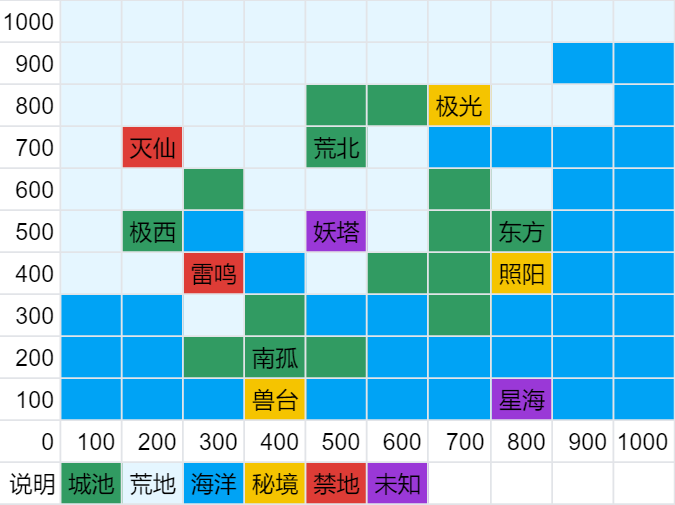
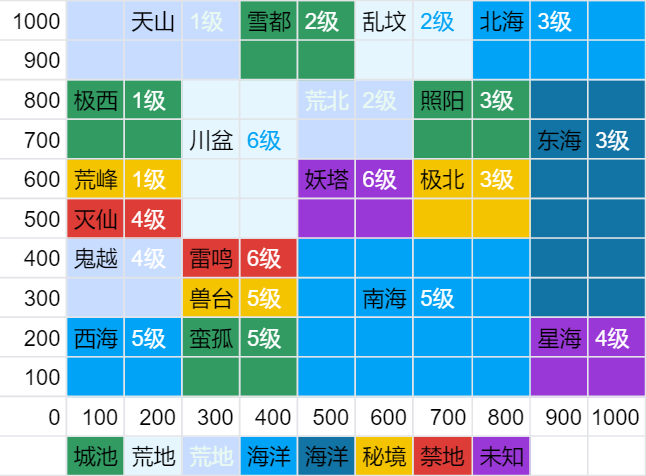
V2.0优化

diff --git a/apps/SecretPlace/SecretPlace.js b/apps/SecretPlace/SecretPlace.js
@@ -1,5 +1,6 @@
 import plugin from '../../../../lib/plugins/plugin.js';
 import data from '../../model/XiuxianData.js';
+import fs from 'node:fs';
 import { Go, Read_action, Read_level, Read_wealth, Write_action, Write_wealth } from '../Xiuxian/Xiuxian.js';
 export class SecretPlace extends plugin {
     constructor() {
@@ -42,25 +43,15 @@ export class SecretPlace extends plugin {
         const address = e.msg.replace('#前往', '');
         //点位表：有各种点位置、传送阵
         const point = JSON.parse(fs.readFileSync(`${data.__PATH.position}/point.json`)).find(item => item.name == address);
-        let mx = point.x;
-        let my = point.y;
+        const mx = point.x;
+        const my = point.y;
         const PointId=point.id.split('-');
-        let grade = PointId[3];
         if (!point) {
-            //看他说的是不是区域地点
-            const position = JSON.parse(fs.readFileSync(`${data.__PATH.position}/position.json`)).find(item => item.name == address);
-            if (!position) {
-                return;
-            };
-            const PositionId=position.id.split('-');
-            //是区域的，就随机分配
-            mx = Math.floor((Math.random() * (position.x2 - position.x1))) + Number(position.x1);
-            my = Math.floor((Math.random() * (position.y2 - position.y1))) + Number(position.y1);
-            grade = PositionId[3];
+            return;
         };
         //判断地点等级限制
-        const level = await Read_level();
-        if (level.level_id < grade) {
+        const level = await Read_level(usr_qq);
+        if (level.level_id < PointId[3]) {
             //境界不足
             e.reply('前面的区域以后再来探索吧');
             return;
@@ -71,10 +62,12 @@ export class SecretPlace extends plugin {
             clearTimeout(setTime);
             action.x = mx;
             action.y = my;
+            action.region=PointId[1];
+            action.adress=PointId[2];
             await Write_action(usr_qq, action);
             e.reply(`${usr_qq}成功抵达${address}`);
         }, 1000 * time);
-        e.reply(`正在前往${address}`);
+        e.reply(`正在前往${address}...\n需要${time}秒`);
         return;
     };
 
@@ -134,10 +127,12 @@ export class SecretPlace extends plugin {
             clearTimeout(setTime);
             action.x = mx;
             action.y = my;
+            action.region=positionID[1];
+            action.address=positionID[2];
             await Write_action(usr_qq, action);
             e.reply(`${usr_qq}成功传送至${address}`);
         }, 1000 * time);
-        e.reply(`正在传送${address}`);
+        e.reply(`正在传送${address}\n需要${time}秒`);
         return;
     };
 };

diff --git a/apps/User/UserStart.js b/apps/User/UserStart.js
@@ -14,7 +14,7 @@ export class UserStart extends plugin {
             priority: 600,
             rule: [
                 {
-                    reg: '^#踏入仙途$',
+                    reg: '^#降临世界$',
                     fnc: 'Create_player'
                 },
                 {
@@ -79,12 +79,18 @@ export class UserStart extends plugin {
             'xianshi': 0
         };
         await Write_wealth(usr_qq, new_wealth);
+        const point = JSON.parse(fs.readFileSync(`${data.__PATH.position}/point.json`)).find(item => item.name == '极西');
+        const PointID = point.id.split('-');
+        //是区域的，就随机分配
         const new_action = {
             'game': 1,//游戏状态
             'Couple': 1, //双修
-            'x': Math.floor((Math.random() * (199 - 100))) + Number(100),
-            'y': Math.floor((Math.random() * (499 - 400))) + Number(400),
-            'z': 0,//位面为0
+            'x': point.x,
+            'y': point.y,
+            'z': PointID[0],//位面
+            'region':PointID[1],//区域
+            'adress':PointID[2],//地点属性
+            //缺少属性：是城池还是禁地
             'Exchange': 0
         };
         await Write_action(usr_qq, new_action);
@@ -110,7 +116,7 @@ export class UserStart extends plugin {
             'status': 1
         });
         await Write_Life(life);
-        this.Show_player(e);
+        e.reply('你来到一个修仙世界\n你对修仙充满了好奇\n你可以#前往极西联盟\n以得到修仙联盟的帮助\n更快的成为一名练气修士\n你也可以#基础信息\n查看自己的身世');
         return;
     };
     Show_player = async (e) => {
@@ -139,7 +145,7 @@ export class UserStart extends plugin {
         await Write_Life(life);
         e.reply([segment.at(usr_qq), '来世，信则有，不信则无，岁月悠悠，世间终会出现两朵相同的花，千百年的回眸，一花凋零，一花绽。是否为同一朵，任后人去评断']);
         await this.Create_player(e);
-        await redis.set(`xiuxian:player:${usr_qq}:${CDid}`,now_time);
+        await redis.set(`xiuxian:player:${usr_qq}:${CDid}`, now_time);
         await redis.expire(`xiuxian:player:${usr_qq}:${CDid}`, CDTime * 60);
         return;
     };

diff --git a/model/XiuxianData.js b/model/XiuxianData.js
@@ -89,7 +89,11 @@ class XiuxianData {
             ...JSON.parse(fs.readFileSync(`${this.__PATH.fixedposition}/position13.json`)),
             ...JSON.parse(fs.readFileSync(`${this.__PATH.fixedposition}/position14.json`)),
             ...JSON.parse(fs.readFileSync(`${this.__PATH.fixedposition}/position15.json`)),
-            ...JSON.parse(fs.readFileSync(`${this.__PATH.fixedposition}/position16.json`))
+            ...JSON.parse(fs.readFileSync(`${this.__PATH.fixedposition}/position16.json`)),
+            ...JSON.parse(fs.readFileSync(`${this.__PATH.fixedposition}/position17.json`)),
+            ...JSON.parse(fs.readFileSync(`${this.__PATH.fixedposition}/position18.json`)),
+            ...JSON.parse(fs.readFileSync(`${this.__PATH.fixedposition}/position19.json`)),
+            ...JSON.parse(fs.readFileSync(`${this.__PATH.fixedposition}/position20.json`))
         ], 'position');
         this.deleteposition('point');
         this.addposition([
@@ -108,7 +112,11 @@ class XiuxianData {
             ...JSON.parse(fs.readFileSync(`${this.__PATH.fixedposition}/point13.json`)),
             ...JSON.parse(fs.readFileSync(`${this.__PATH.fixedposition}/point14.json`)),
             ...JSON.parse(fs.readFileSync(`${this.__PATH.fixedposition}/point15.json`)),
-            ...JSON.parse(fs.readFileSync(`${this.__PATH.fixedposition}/point16.json`))
+            ...JSON.parse(fs.readFileSync(`${this.__PATH.fixedposition}/point16.json`)),
+            ...JSON.parse(fs.readFileSync(`${this.__PATH.fixedposition}/point17.json`)),
+            ...JSON.parse(fs.readFileSync(`${this.__PATH.fixedposition}/point18.json`)),
+            ...JSON.parse(fs.readFileSync(`${this.__PATH.fixedposition}/point19.json`)),
+            ...JSON.parse(fs.readFileSync(`${this.__PATH.fixedposition}/point20.json`))
         ], 'point');
     };
     /**

diff --git a/apps/User/UserTransaction.js b/apps/User/UserTransaction.js
@@ -1,6 +1,6 @@
 import plugin from '../../../../lib/plugins/plugin.js';
-import fs from 'node:fs';
 import data from '../../model/XiuxianData.js';
+import fs from 'node:fs';
 import { Numbers, Read_wealth, Add_lingshi,  exist_najie_thing_name,Add_najie_thing,  existplayer, ForwardMsg, __PATH, Read_najie, Write_najie } from '../Xiuxian/Xiuxian.js';
 export class UserTransaction extends plugin {
     constructor() {

diff --git a/apps/upgrade/MoneyOperation.js b/apps/upgrade/MoneyOperation.js
@@ -11,7 +11,7 @@ export class MoneyOperation extends plugin {
             priority: 600,
             rule: [
                 {
-                    reg: '^赠送灵石.*$',
+                    reg: '^#赠送灵石.*$',
                     fnc: 'Give_lingshi'
                 }
             ]

diff --git a/apps/AdminSuper/AdminDelete.js b/apps/AdminSuper/AdminDelete.js
@@ -108,7 +108,6 @@ export class AdminDelete extends plugin {
         await Write_Forum([]);
         await Write_Life([]);
         await this.deleteredis(e);
-        e.reply('已崩碎');
         return;
     };
     deleteuser = async (e) => {
